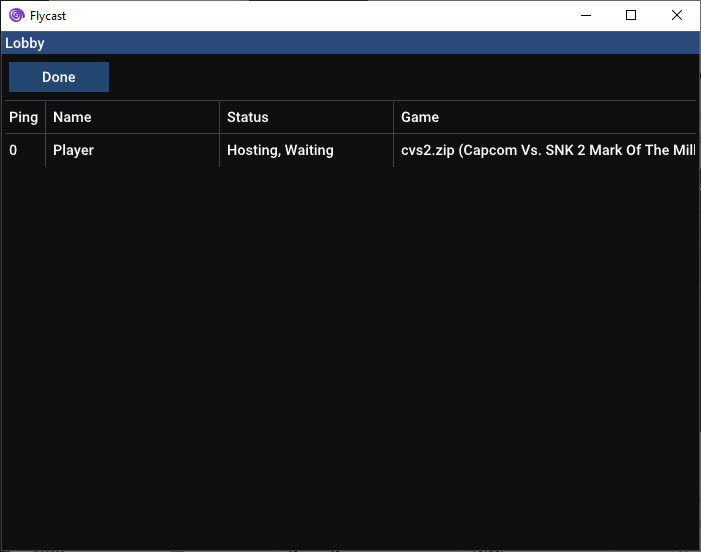
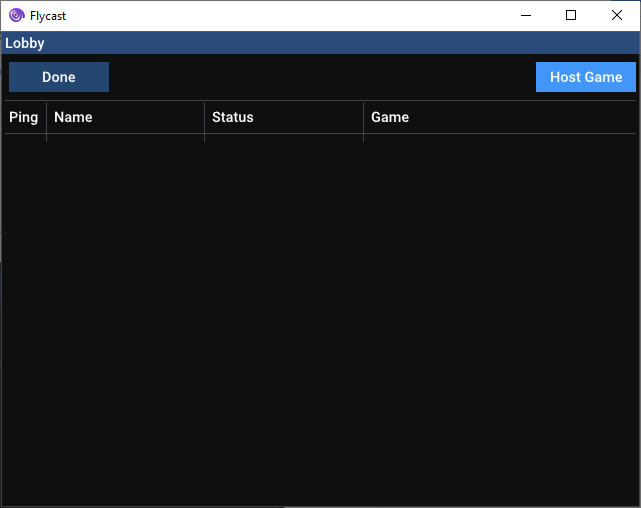
README, edit lobby details, rename project

diff --git a/README.md b/README.md
@@ -1,6 +1,6 @@
-flycast-netplay
+flycast-dojo
 ===========
-**flycast-netplay** is a fork of [**flycast**](https://github.com/flyinghead/flycast), a multi-platform Sega Dreamcast, Naomi and Atomiswave emulator derived from [**reicast**](https://reicast.com/), with a focus on netplay features and replay. We intend to keep **flycast-netplay** updated with the latest downstream changes made to the parent project.
+**flycast-dojo** is a fork of [**flycast**](https://github.com/flyinghead/flycast), a multi-platform Sega Dreamcast, Naomi and Atomiswave emulator derived from [**reicast**](https://reicast.com/), with a focus on netplay features and replay. We intend to keep **flycast-dojo** updated with the latest downstream changes made to the parent project.
 
 General information about flycast configuration and supported features can be found on [**TheArcadeStriker's flycast wiki**](https://github.com/TheArcadeStriker/flycast-wiki/wiki)
 
@@ -12,29 +12,32 @@ You can find the Netplay settings under the "Netplay" section of the emulator's 
 ## Lobby Quick Start
 If you are connected to your opponents on a shared LAN or are using software that emulates local connections like ZeroTier or Radmin VPN, you can make your life easier by enabling lobbies.
 
-### As Host
-* In the Netplay options, check "Enable Lobbies" to make yourself visible to anyone connected to your network.
-* A text box is present for server IP. If you are hosting a game, check the "Act As Server" box.
+* In the Netplay options, check "Enable Lobby" to make yourself visible to anyone connected to your network.
 * Set a unique Player Name to distinguish yourself from the crowd.
-* Press "Done" and select your game of choice.
+
+### As Host
+* In the Lobby screen, click "Host Game" and select your game of choice.
 
 ![Lobby](lobby1.png)
+> Empty lobby with "Host Game" button highlighted
+
+![Host Game Selection](lobby2.png)
+> Host game selection menu with search filter
 
 ### As Guest
-* Check "Enable Lobbies" to see potential opponents on your connected networks.
-* Set a unique Player Name to distinguish yourself from the crowd.
 * Click on any entries with the status of "Hosting, Waiting" to launch a game with auto detected delay.
 * To set custom delay, right click on the entry and adjust accordingly. Click "Launch Game" to begin.
 
-![Lobby - Entry Right Click](lobby2.png)
+![Lobby - Entry Select](lobby3.png)
 
-## Set Server IP & Port
+## Manual Operation
 
+### Set Server IP & Port
 If you are hosting and do not wish to use the lobby system, you can enter your server details manually in the "Netplay" settings. Once you have specified your session details, make sure that your opponent enters your IP address and port specified.
 
 If you are a guest, make sure that "Act As Server" is not checked and that you have entered the matching IP address and port of your opponent in the "Server" column.
 
-## Set Delay
+### Set Delay
 To automatically set delay, click on the "Detect Delay" button after entering your opponent's IP. There's also a slider for manually setting delay if you run into any issues.
 
 To calculate delay, we would use the following formula:
@@ -52,7 +55,7 @@ For instance, if my opponent’s average ping is 42 ms, I would divide it by 32 
 
 Make sure both you and your opponent have the same delay and game ROM to begin your game.
 
-## Launch Game
+### Launch Game
 On the Flycast main screen, you may now select your game of choice. You may also filter your list of games by typing in the text box on the top of the screen.
 
 If you are hosting, you must start the game first, then have your opponent join afterward. If you are joining someone else’s game, you must wait for them to start first. Be sure that you and your opponent have the same files before starting your session. These would include your ROM files, as well at your `save.net` files found in your `data/` subdirectory.
@@ -67,17 +70,17 @@ To play the replay file, be sure to uncheck "Record All Sessions" and enable "Pl
 # Command Line
 You may also call Flycast from the command line. All command line flags correspond with the options found in `emu.cfg`. Here are some example calls:
 
-### Server
+## Server
 ```flycast.exe -config maplenet:Enable -config maplenet:ActAsServer=yes -config maplenet:ServerPort=7777 -config maplenet:Delay=1 C:\emu\flycast\games\dc\ControllerTest-DJ.cdi```
 
-### Client
+## Client
 ```flycast.exe -config maplenet:Enable -config maplenet:ActAsServer=no -config maplenet:ServerIP=127.0.0.1 -config maplenet:ServerPort=7777 -config maplenet:Delay=1 C:\emu\flycast\games\dc\ControllerTest-DJ.cdi```
 
-## Video Demos
-### Flycast Netplay Testing - Capcom vs SNK 2 (NAOMI) VS
+# Video Demos
+## Flycast Netplay Testing - Capcom vs SNK 2 (NAOMI) VS
 [![Flycast Netplay Testing - Capcom vs SNK 2 (NAOMI) VS](http://img.youtube.com/vi/zZoonpVJRjI/0.jpg)](http://www.youtube.com/watch?v=zZoonpVJRjI "Flycast Netplay Testing - Capcom vs SNK 2 (NAOMI) VS")
 
-### Flycast Netplay Testing - Akatsuki Blitzkampf Ausf Achse (NAOMI) VS
+## Flycast Netplay Testing - Akatsuki Blitzkampf Ausf Achse (NAOMI) VS
 [![Flycast Netplay Testing - Akatsuki Blitzkampf Ausf Achse (NAOMI) VS](http://img.youtube.com/vi/s0MXenZPLiU/0.jpg)](http://www.youtube.com/watch?v=s0MXenZPLiU "Flycast Netplay Testing - Akatsuki Blitzkampf Ausf Achse (NAOMI) VS")
 
 # Roadmap
